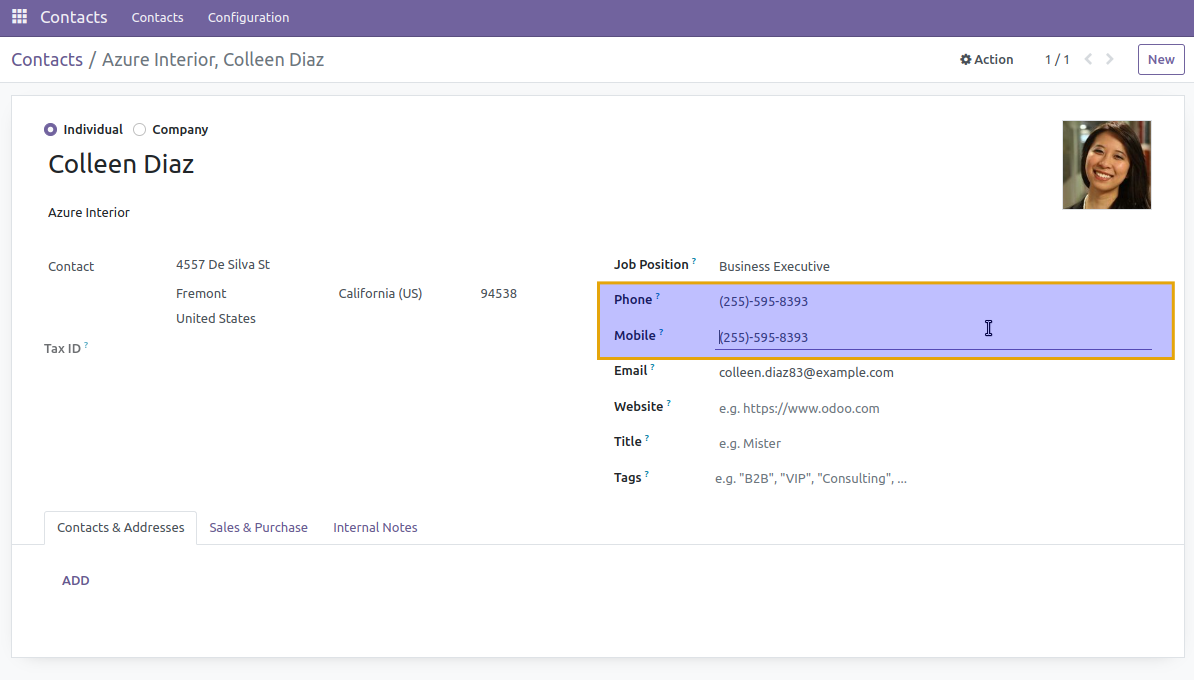
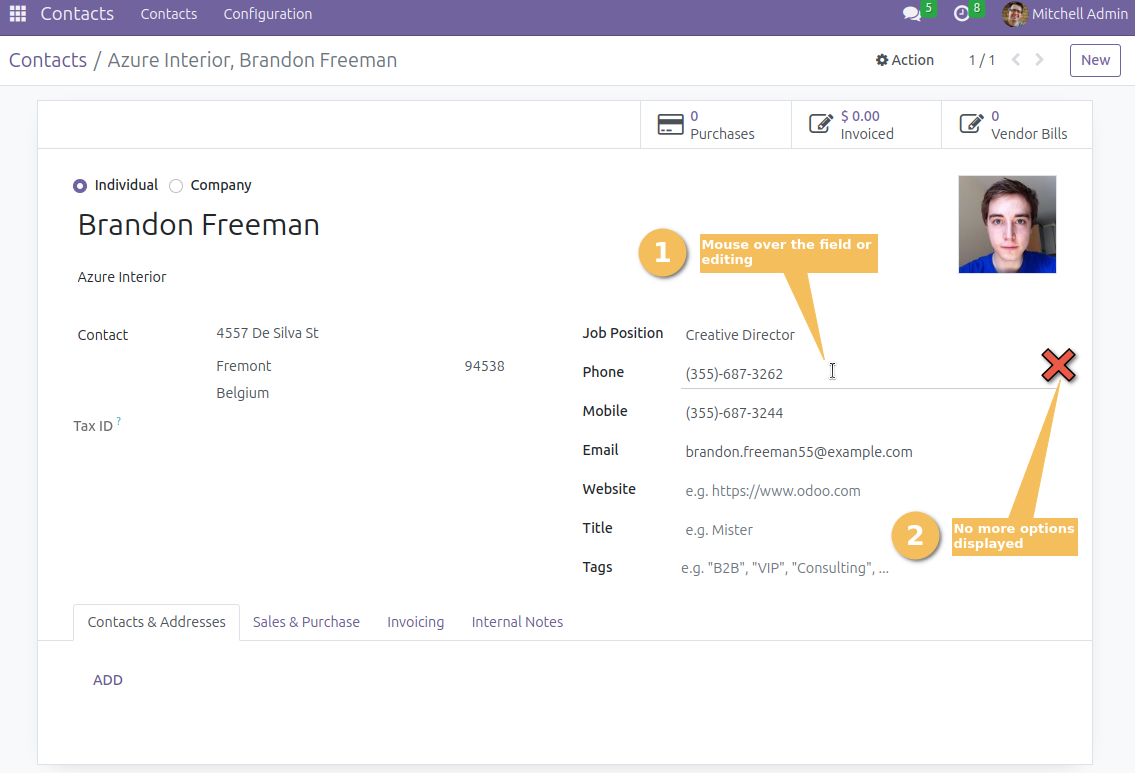
TA#72140 [MIG ][16.0][CHG] partner_phone_no_envelope

diff --git a/partner_phone_no_envelope/__manifest__.py b/partner_phone_no_envelope/__manifest__.py
@@ -9,6 +9,7 @@
     "website": "https://www.numigi.com",
     "license": "LGPL-3",
     "category": "Partner Management",
+    "summary": "Hides the envelope icon for phone numbers in partner form views",
     "depends": [
         "base_view_inheritance_extension",
         "sms",

diff --git a/partner_phone_no_envelope/README.rst b/partner_phone_no_envelope/README.rst
@@ -7,7 +7,7 @@ The envelope only works if an In-App Purchase (IAP) account is enabled.
 .. image:: static/description/before_install.png?raw=true
    :alt: Before Installing
 
-This module hides the envelope:
+This module hides the envelope, in case you do a mouse-over on the phone number, or click on it to edit.
 
 .. image:: static/description/after_install.png?raw=true
    :alt: After Installing
@@ -16,7 +16,7 @@ Displaying The Envelopes
 ------------------------
 
 The envelope is hidden based on a system parameter ``partner_phone_no_envelope.hide_envelope``
-which defaults to True.
+which defaults to True, and if values on parameter is not `False` or `0`.
 
 To render the envelope visible:
 
